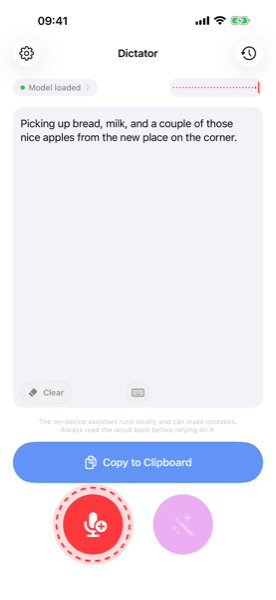
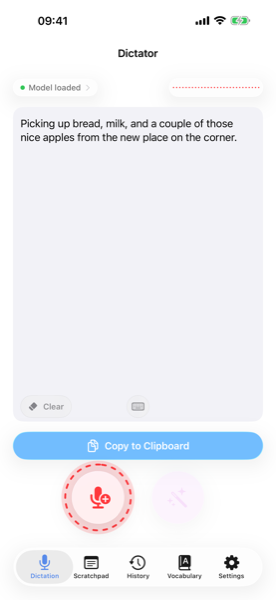
iOS: legible disabled Copy button + refreshed screenshots
- Copy button: disabled state uses a readable secondary-label grey
  (not faded white, which vanished against the card) and a slightly
  stronger blue tint, so it reads as inactive rather than broken.
- Refresh the iOS website screenshot thumbnails (idle / dictating /
  history) for the new dictation-screen layout.
- Point the screenshot scripts at Xcode-beta (stable Xcode is gone
  here) via an overridable DEVELOPER_DIR default.

Claude-Session: https://claude.ai/code/session_01HRpFWyfe87KWJb7sNGk4pT

diff --git a/Sources/DictatorIOS/ContentView.swift b/Sources/DictatorIOS/ContentView.swift
@@ -730,15 +730,20 @@ struct DictationTabView: View {
                     .frame(maxWidth: .infinity)
                     .padding(.vertical, 11)
                     .font(.callout.weight(.semibold))
-                    .foregroundStyle(.white.opacity(viewModel.transcript.isEmpty ? 0.4 : 1))
+                    // White label on the strong blue when active; a muted
+                    // secondary-label grey when disabled — a faded white
+                    // label vanishes against the light card, reading as
+                    // broken rather than inactive.
+                    .foregroundStyle(viewModel.transcript.isEmpty ? Color(.secondaryLabel) : .white)
                     // Tint the whole glass capsule blue (not just the
                     // label) so Copy reads as the primary action while
                     // staying translucent rather than a solid fill. The
                     // tint eases off when disabled since `.opacity` can't
-                    // fade a glassEffect on its own.
+                    // fade a glassEffect on its own, but stays present
+                    // enough to read as a real (inactive) button.
                     .glassEffect(
                         .regular
-                            .tint(.blue.opacity(viewModel.transcript.isEmpty ? 0.2 : 0.55))
+                            .tint(.blue.opacity(viewModel.transcript.isEmpty ? 0.28 : 0.55))
                             .interactive(),
                         in: .capsule
                     )

diff --git a/CHANGELOG-iOS.md b/CHANGELOG-iOS.md
@@ -18,7 +18,7 @@ listing — keep entries as plain bullet lines.
 ## Unreleased
 
 - New bottom tab bar — Dictation, Scratchpad, History, Vocabulary, and Settings each get their own tab, with the iOS 26 Liquid Glass look throughout.
-- Dictation screen: the Copy to Clipboard button now uses the same translucent glass as the rest of the controls, and the mic, assist, and copy buttons are a little smaller so the screen feels less cramped.
+- Dictation screen: the Copy to Clipboard button is now a blue-tinted translucent glass capsule, and the mic, assist, and copy buttons are a little smaller so the screen feels less cramped.
 - Dictation screen: the "can make mistakes" note moved out of the button area and now shows as an amber warning near the bottom of the empty transcript box, keeping the controls uncluttered.
 - Added a Scratchpad: a quick notes tab that syncs with the Scratchpad on your Mac when you connect a shared folder, so notes you jot on your phone show up on your Mac and vice versa. Dictate into a note with the mic (it inserts at the cursor, replaces selected text, or adds to the end), reword selected text — or the whole note — with the assistant button, or tap the keyboard button to type. Quick space, return, and delete keys let you tidy a note without the full keyboard, and an undo button (which becomes redo) reverses a dictation or reword.
 - History and Vocabulary are now top-level tabs instead of being tucked inside Settings.
